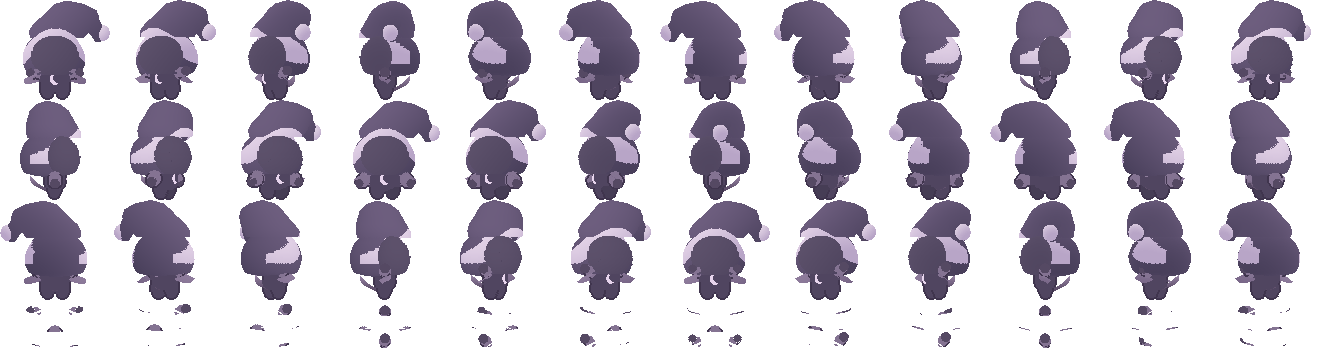
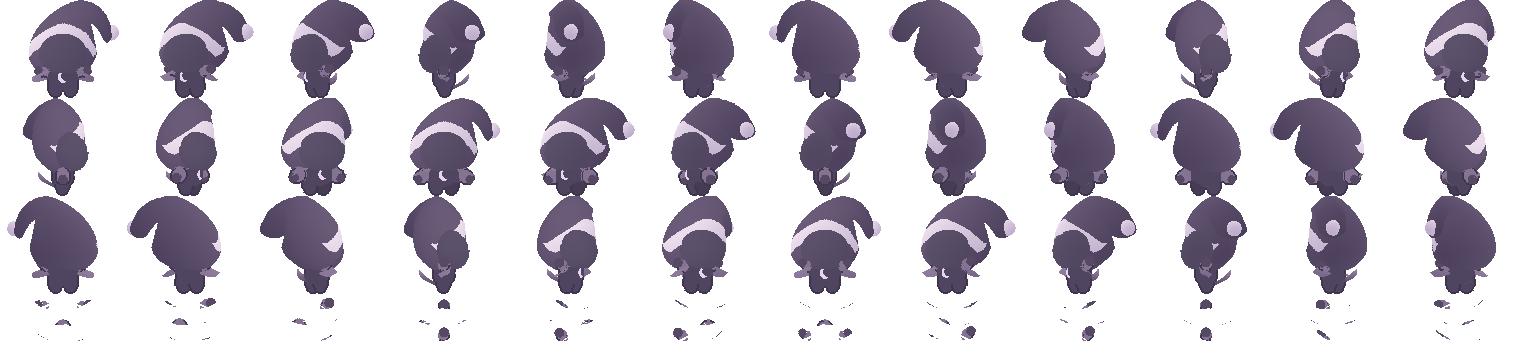
ツキミの帽子を頭から垂れた先まで一つにつなぐ

diff --git a/tools/art/spirit3d/light_dark.py b/tools/art/spirit3d/light_dark.py
@@ -6,6 +6,8 @@
 """
 from math import pi
 import numpy as np
+from PIL import Image, ImageDraw
+from scipy.ndimage import binary_erosion, distance_transform_edt
 
 from core import Q, QH, TAILBASE, Spirit, ry
 
@@ -82,6 +84,40 @@ def chest_mark(body, dark):
     return at,pigment
 
 
+def night_cap():
+    """帽子の外周を丸め、一つながりの断面から厚みを作る。"""
+    contour = np.array([
+        (-13,23),(-25,27),(-32,35),(-34,45),(-32,56),(-27,67),
+        (-17,79),(-4,89),(12,96),(24,96),(35,91),(43,82),(48,70),
+        (49,61),(46,56),(42,56),(39,61),(34,69),(28,74),(30,63),
+        (32,53),(33,43),(28,32),(19,26),(9,23),
+    ], dtype=float)
+    outline = []
+    for i in range(len(contour)):
+        a,b,c,d = contour[(i+np.array([-1,0,1,2]))%len(contour)]
+        for t in np.linspace(0,1,10,endpoint=False):
+            point = (2*b+(-a+c)*t+(2*a-5*b+4*c-d)*t*t+
+                     (-a+3*b-3*c+d)*t*t*t)/2
+            outline.append(tuple(point))
+    xs = np.arange(-39,53,QH)
+    ys = np.arange(-42,30,QH)
+    zs = np.arange(20,100,QH)
+    mask = Image.new('1',(len(xs),len(zs)))
+    ImageDraw.Draw(mask).polygon([((x-xs[0])/QH,(z-zs[0])/QH)
+                                  for x,z in outline],fill=1)
+    front = np.array(mask).T
+    distance = distance_transform_edt(front)*QH
+    depth = np.interp(zs,(20,37,53,68,80,92,100),(11,23,26,26,22,14,5))
+    inset = np.minimum(distance,depth)
+    half = np.sqrt(inset*(2*depth-inset))
+    cx,cz = np.meshgrid(xs,zs,indexing='ij')
+    center = -5-.98*np.maximum(0,cx-24)-.10*np.maximum(0,cz-71)
+    body = front[:,None,:] & (np.abs(ys[None,:,None]-center[:,None,:])
+                             <= half[:,None,:])
+    x,y,z = np.nonzero(body & ~binary_erosion(body,iterations=2))
+    return np.column_stack((xs[x],ys[y],zs[z]))
+
+
 def mantle():
     """左右の肩から伸びて、先へ行くほど下がる短い外套。"""
     u,v = np.meshgrid(np.linspace(0,1,100),np.linspace(0,1,55),indexing='ij')
@@ -126,25 +162,20 @@ class LightDark(Spirit):
     def hood(self, dark):
         original = self.tex['hood'][0]
         if dark:
-            upper = surface([(62,2,-1,27,27),(68,4,-2,30,27),
-                             (75,9,-4,31,25),(82,15,-5,29,22),
-                             (89,17,-6,24,19),(95,14,-7,15,12),
-                             (98,12,-8,2,2)])
-            fold = surface([(58,43,-5,3,4),(64,42,-5,6,7),
-                            (72,38,-5,10,10),(81,31,-5,12,13),
-                            (86,24,-6,10,14)])
-            p = np.concatenate((original,upper,fold))
+            p = night_cap()
             x,y,z = p.T
-            tint = np.clip(.51+.008*(z-58)-.007*x+.003*y,0,1)
-            color = tones(rgb('#463d58'),rgb('#776688'),tint)
-            # 折り返しの弧は、帽子の高さと横幅に合わせて前・横に回す。
-            trim_height = 71-.021*x*x-.023*np.maximum(-y,0)**2
-            trim = (y>-25)&(z>35)&(z<trim_height)&(z>trim_height-16)
-            color[trim] = tones(rgb('#b8a5c7'),rgb('#ebdbed'),
-                                np.clip(.55-.012*x[trim]+.016*(z[trim]-60),0,1))
-            pom = volume((43,-5,55),(7.8,7.5,8))
-            tint = np.clip(.49+.05*(pom[:,2]-55)-.028*(pom[:,0]-43)
-                           +.022*pom[:,1],0,1)
+            tint = np.clip(.55+.006*(z-60)-.006*x+.004*y,0,1)
+            color = tones(rgb('#453a56'),rgb('#766684'),tint)
+            # 折り返しは帽子の表面を回り、横に行くほど幅を細くする。
+            angle = np.arctan2(np.abs(x),y+7)/(pi/2)
+            top = 74-24*np.clip(angle,0,1)**1.55
+            width = 16*np.clip((1.14-angle)/.30,0,1)
+            trim = (z<top)&(z>top-width)
+            color[trim] = tones(rgb('#bbacc9'),rgb('#eee0ee'),
+                                np.clip(.63-.010*x[trim]+.012*(z[trim]-53),0,1))
+            pom = volume((44,-28,53),(7.5,7.4,7.6))
+            tint = np.clip(.54+.045*(pom[:,2]-53)-.029*(pom[:,0]-44)
+                           +.012*(pom[:,1]+28),0,1)
             self.top('tip',pom,tones(rgb('#b8a5c7'),rgb('#eee1ee'),tint))
         else:
             crown=surface([(62,-.5,-5,21.3,19.8),(69,0,-4,16,15),

diff --git a/handoff/from-gpt.md b/handoff/from-gpt.md
@@ -36,6 +36,7 @@
 
 - 持ち主の見本を元に3Dで組んだ。水の精霊と同じ顔、体、手足、骨と、共通の表情チップを使った。
 - トモリは金色のとんがり頭巾、七つの光、胸のしずく。ツキミは右へ垂れた紫の頭巾、うす紫の折り返しと房、肩の布、胸の三日月。しっぽは後ろからも見える位置に付けた。
+- ツキミの帽子は頭を包む部分から垂れた先まで一つながりにした。うす紫の折り返しは表面に沿って細くなり、房は垂れた先に付けた。11動作のツキミの絵を写し直した。
 - [正面・横・後ろ](files/H-4/character-views.png) ・ [歩く動き](files/H-4/walk.gif) ・ [動きの見本](files/H-4/motion-views.png)
 - `parts/` に頭巾・飾り・顔・しっぽなどの透過 PNG、`motions/` に11動作 × 2属性の WebP を置いた。各動作のシートは正面・横・後ろの順。全552コマが書き出され、16種類と外套の部品1つの大きさと透過も確認した。目の位置、手の位置、絵の基準は [sprites.json](files/H-4/sprites.json)。
 - `python3 tools/art/spirit3d/build_handoff.py handoff/files/H-4` で同じ絵を作る。動作名を指定して別の動きも出せる。 `--all` で全動作を写す。
